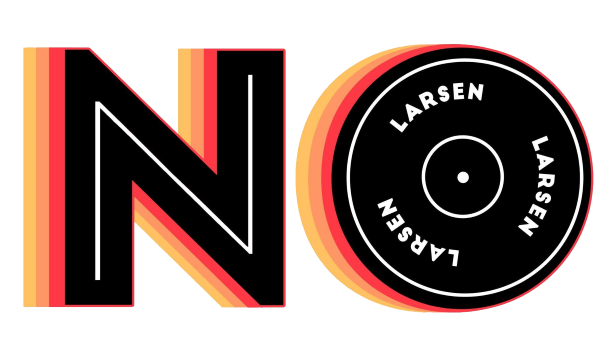
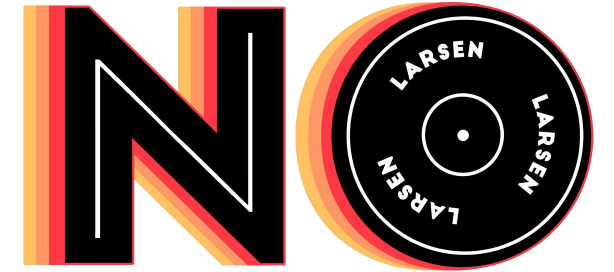
tst with flexbox

diff --git a/src/layout.css b/src/layout.css
@@ -12,12 +12,108 @@ body {
 .material-icons.md-3 { font-size: 3vw; }
 .material-icons.md-4 { font-size: 4vw; }
 
+
+.imgNavbar{
+   float: left;
+
+
+}
+.imgNavbarAccount{
+   float: right;
+
+}
+
+.flex-zone{
+   top: 0;
+   position: fixed;
+    background-color: #000;
+    width: 100%;
+    height: 10%;
+    overflow: hidden;
+}
+
+.flex-container {
+   float: right;
+  display: flex;
+height: 100%;
+line-height: 100%;
+  /*flex-direction: row-reverse;*/
+  background-color: DodgerBlue;
+}
+
+.flex-container > div {
+  background-color: #f1f1f1;
+ /* width: 5%;*/
+ padding: 0;
+  margin-right:  1em;
+  align-items: center;
+  justify-content: center;
+  text-align: center;
+  line-height: 100%;
+  font-size: 3vw;
+}
+
+div a{
+   vertical-align:middle;
+   /*display:inline-block;*/
+}
+#divLogo{
+   flex :25%;
+}
+/*
+ul {
+    list-style-type: none;
+    margin: 0;
+    padding: 0;
+    top:0;
+    width: 100%;
+    height: 10vh;
+    line-height: 10vh; /* hauteur de ligne (identique) */
+   /* white-space: nowrap; /* interdiction de passer à la ligne */
+   /* overflow: hidden;
+    background-color: #333;
+    position: fixed;
+
+}
+
+li {
+    float: right;
+}
+
+li a {
+    /*display: inline-grid;*/
+/*    color: white;
+    text-align: center;
+    /*vertical-align: middle;
+   /* padding: 10vh 3vh;*/
+   /* text-decoration: none;
+    padding-bottom:1vh;
+}
+
+li a:hover:not(.active) {
+    background-color: #111;
+}
+
+.active {
+    background-color: #4CAF50;
+}*/
+
+#logo {
+   vertical-align:middle;
+   /*margin: 0 1em 0 0;*/
+   /*padding: 0;*/
+   /*float: left;*/
+/*vertical-align: middle;*/
+
+}
 #accountLogo{
+   vertical-align: middle;
    color: gray;
+   /*float: right;*/
 /*margin-right: 2em;*/
-width:100%;
+/*width:100%;*/
 cursor: default;
-margin-right: 0.3em;
+/*margin-right: 0.3em;*/
 background-position: center; /* Center the image */
   background-repeat: no-repeat; /* Do not repeat the image */
   background-size: cover;
@@ -27,13 +123,46 @@ background-position: center; /* Center the image */
 #userName{
    font-size: 1.2vw;
    text-align: center;
-   display: block;
-   padding-right: 0.4em;
+   /*display: block;*/
+   /*padding-right: 0.4em;*/
 }
 /*#accountLogo:hover{
    cursor: default;
 }*/
 
+.navbar{
+   /*margin: auto;*/
+   /*padding-right: 1em;
+   padding-top: 0.5em;*/
+   overflow: hidden;
+   background-color: #000;
+   position: fixed;
+   top: 0;
+   width: 100%;
+   height: 10%;
+
+   box-shadow: 0 1em 1.4em 0 rgba(0, 0, 0, 0.2);
+}
+.navbarContent{
+   display: inline-block;
+
+   background-color: #CCC;
+   /*margin: auto;*/
+   width: 100%;
+   height: 100%;
+   line-height: 4em;
+
+
+}
+/*a{
+   float: right;
+   vertical-align: middle;
+   /*display: inline-block;*/
+
+
+
+
+/*
 ul {
    list-style-type: none;
    margin: 0;
@@ -68,11 +197,12 @@ li a:hover:not(.active) {
 .active {
    color: #FFF;
    border-bottom: 0.2em #FFF solid;
-}
+}*/
 
 .responsiveDiv {
    width: 100%;
-   margin-top: 5em;
+   margin-top:5em;
+
 }
 
 .card {
@@ -95,10 +225,7 @@ img {
    width: 100%;
 }
 
-#logo {
-   /*margin: 0 1em 0 0;*/
-   padding: 0;
-}
+
 
 #card1 {
    background-color: #FFC164;

diff --git a/index.html b/index.html
@@ -14,14 +14,39 @@
 
 <body>
 
-   <ul>
-      <img src="lib\icoNol.png" alt="Avatar" id="logo" style="width:7%">
-      <li><a href="#contact">Contact</a></li>
-      <li><a href="#news">News</a></li>
-      <li><a class="active" href="#home">Home</a></li>
-      <li><i class="material-icons md-4" id="accountLogo" onclick="googleLogin()">account_circle</i></li>
-      <li><p id="userName"></p></li>
-   </ul>
+
+
+   <div class="flex-zone">
+      <div class="flex-container">
+         <div><a href="#contact">Contact</a></div>
+         <div><a href="#news">News</a></div>
+         <div><a class="active" href="#home">Home</a></div>
+      </div>
+      <div style="float:left" class="flex-container">
+         <div id="divLogo"><img src="lib\icoNol.png" alt="icoNol" id="logo" style="width:10%"></div>
+         <!--div><a href="#contact">Contact</a></div>
+      <div><a href="#news">News</a></div>
+      <div><a class="active" href="#home">Home</a></div-->
+      </div>
+   </div>
+
+   <!--div class="navbar" id="navbarId">
+   <div class="navbarContent">
+      <div class="imgNavbar">
+         <img src="lib\icoNol.png" alt="icoNol" id="logo" style="width:7%">
+      </div>
+
+      <a href="#contact">Contact</a>
+      <a href="#news">News</a>
+      <a class="active" href="#home">Home</a>
+<div class="imgNavbarAccount">
+      <i class="material-icons md-4" id="accountLogo" onclick="googleLogin()">account_circle</i>
+</div>
+      <p id="userName"></p>
+   </div>
+</div-->
+
+
    <div class="responsiveDiv">
       <div class="card" id="card1">
          <img src="lib\play.jpg" alt="Play" class="pic">

diff --git a/src/responsive.js b/src/responsive.js
@@ -2,7 +2,13 @@ function resizeMargin() {
    var larg = (document.body.clientWidth);
    var haut = (document.body.clientHeight);
 
-   var singleMargin = (larg * 0.095) / 6;
+var singleMargin;
+   if (larg < "800px") {
+       singleMargin = (larg * 0.395) / 4;
+   } else {
+       singleMargin = (larg * 0.095) / 6;
+   }
+   //var singleMargin = (larg * 0.095) / 6;
    cards = document.getElementsByClassName('card');
    for (var i = 0; i < cards.length; i++)
       cards[i].style.margin = singleMargin + "px";
